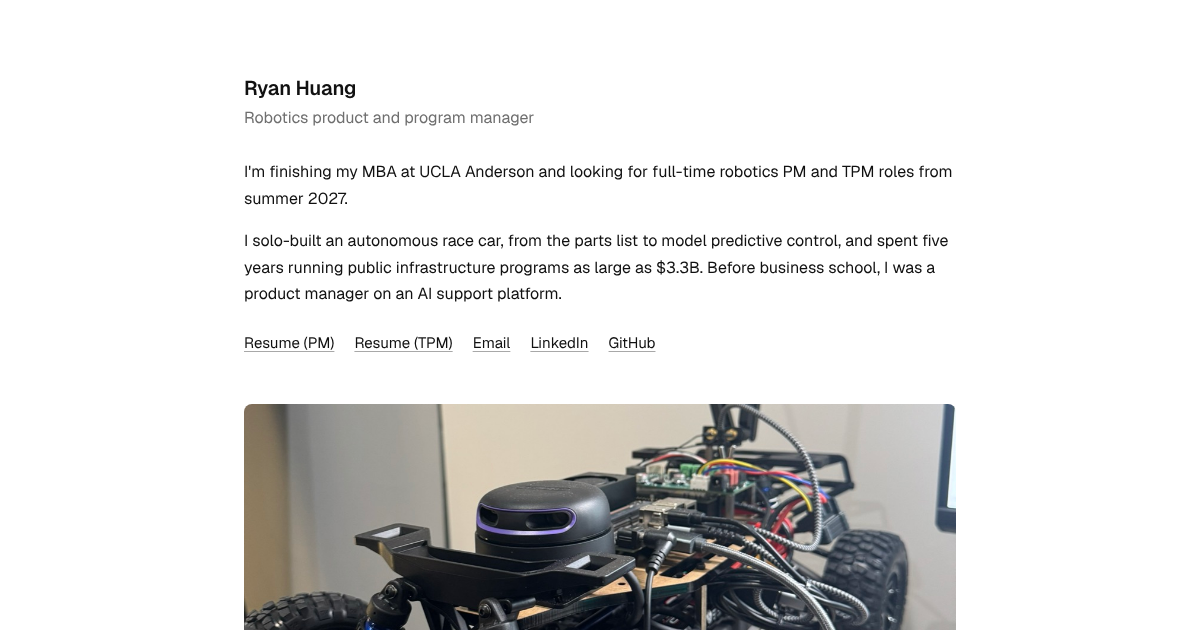
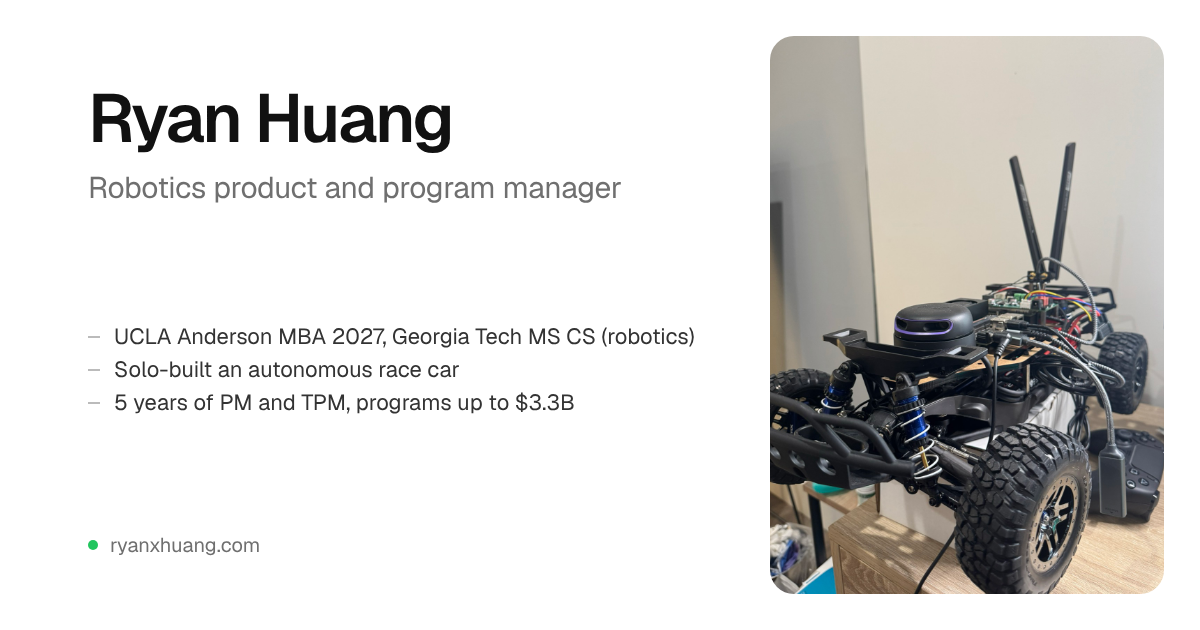
Hover results, case study key numbers, share card and search data
- Remove the Chinese-name hover effect
- Experience rows reveal their key result on hover or focus; always
  shown on touch screens and in print
- Key numbers at the top of each case study (stats in frontmatter)
- New Open Graph card for link previews
- schema.org Person data on the home page for search results

Claude-Session: https://claude.ai/code/session_01D7hY876oTEuHXyNf9GFinD

diff --git a/lib/site.ts b/lib/site.ts
@@ -22,27 +22,28 @@ export type Entry = {
   end?: string; // YYYY-MM, omitted while current
   dates: string;
   href?: string;
+  impact?: string; // one line shown on hover (always shown on touch screens)
 };
 
 /** Resume-style data for the home page, ordered newest first. */
 export const experience: Entry[] = [
-  { role: 'Capstone team lead', org: 'Avride, UCLA Anderson MBA capstone', mark: 'Av', start: '2026-11', dates: 'Nov 2026', href: '/work/avride/' },
-  { role: 'Graduate student researcher', org: 'UCLA Robot Intelligence Lab', mark: 'UR', start: '2026-10', dates: 'Oct 2026', href: '/work/uril/' },
-  { role: 'Founder and product lead', org: 'CMIS.ai', mark: 'CM', start: '2026-06', dates: 'Jun 2026', href: '/work/cmis/' },
-  { role: 'MBA intern, product and GTM', org: 'AGIBOT', mark: 'AG', start: '2026-05', end: '2026-07', dates: 'May – Jul 2026', href: '/work/agibot/' },
-  { role: 'Product manager', org: 'James Tech Consulting Group, Zendesk partner', mark: 'JT', start: '2025-03', end: '2025-07', dates: 'Mar – Jul 2025', href: '/work/zendesk/' },
-  { role: 'Technical program manager', org: 'China Engineering Consultants', mark: 'CE', start: '2024-06', end: '2025-02', dates: 'Jun 2024 – Feb 2025', href: '/work/infrastructure/' },
-  { role: 'Senior project manager', org: 'Taoyuan City Government', mark: 'TY', start: '2020-08', end: '2024-05', dates: 'Aug 2020 – May 2024', href: '/work/infrastructure/' },
+  { role: 'Capstone team lead', org: 'Avride, UCLA Anderson MBA capstone', mark: 'Av', start: '2026-11', dates: 'Nov 2026', href: '/work/avride/', impact: 'Signed Avride as our partner; pricing and market-selection work for 1,000+ robots on 25+ campuses.' },
+  { role: 'Graduate student researcher', org: 'UCLA Robot Intelligence Lab', mark: 'UR', start: '2026-10', dates: 'Oct 2026', href: '/work/uril/', impact: 'Proposed research on demonstration safety margins and physics-solver disagreement.' },
+  { role: 'Founder and product lead', org: 'CMIS.ai', mark: 'CM', start: '2026-06', dates: 'Jun 2026', href: '/work/cmis/', impact: 'Built a vision pipeline that turns site photos into structured records; 2 pilot users lined up.' },
+  { role: 'MBA intern, product and GTM', org: 'AGIBOT', mark: 'AG', start: '2026-05', end: '2026-07', dates: 'May – Jul 2026', href: '/work/agibot/', impact: 'Unitree benchmark, PRDs and a hardware-software roadmap, and the US go-to-market plan.' },
+  { role: 'Product manager', org: 'James Tech Consulting Group, Zendesk partner', mark: 'JT', start: '2025-03', end: '2025-07', dates: 'Mar – Jul 2025', href: '/work/zendesk/', impact: 'Division revenue doubled in 5 months; BenQ integration reached 92% accuracy and saved $200K a month.' },
+  { role: 'Technical program manager', org: 'China Engineering Consultants', mark: 'CE', start: '2024-06', end: '2025-02', dates: 'Jun 2024 – Feb 2025', href: '/work/infrastructure/', impact: 'Governance for a $3.3B railway program; one root-cause fix saved $1.5M and 12 months.' },
+  { role: 'Senior project manager', org: 'Taoyuan City Government', mark: 'TY', start: '2020-08', end: '2024-05', dates: 'Aug 2020 – May 2024', href: '/work/infrastructure/', impact: 'Managed a $63M portfolio with 10% ($6.3M) savings; cut execution costs 15% across 3 programs.' },
 ];
 
 export const projects: Entry[] = [
-  { role: 'F1TENTH autonomous car', org: 'Solo build, from the parts list to MPC', mark: 'F1', start: '2026-01', end: '2026-05', dates: 'Jan – May 2026', href: '/work/f1tenth/' },
+  { role: 'F1TENTH autonomous car', org: 'Solo build, from the parts list to MPC', mark: 'F1', start: '2026-01', end: '2026-05', dates: 'Jan – May 2026', href: '/work/f1tenth/', impact: '6 autonomy algorithms, about 5,000 lines of Python and C++, localization 4.47× faster on the GPU.' },
 ];
 
 export const education: Entry[] = [
-  { role: 'MBA', org: 'UCLA Anderson School of Management', mark: 'UA', dates: '2027' },
-  { role: 'MS in Computer Science, robotics', org: 'Georgia Institute of Technology', mark: 'GT', dates: 'From 2027' },
-  { role: 'MS in Civil Engineering', org: 'National Chiao Tung University', mark: 'CT', dates: '2020' },
+  { role: 'MBA', org: 'UCLA Anderson School of Management', mark: 'UA', dates: '2027', impact: 'Technology Management specialization. GRE 337.' },
+  { role: 'MS in Computer Science, robotics', org: 'Georgia Institute of Technology', mark: 'GT', dates: 'From 2027', impact: 'Computational Perception and Robotics specialization.' },
+  { role: 'MS in Civil Engineering', org: 'National Chiao Tung University', mark: 'CT', dates: '2020', impact: 'Co-authored a paper at the 17th World Conference on Earthquake Engineering.' },
   { role: 'BS in Civil Engineering', org: 'National Central University', mark: 'CU', dates: '2017' },
 ];
 

diff --git a/app/globals.css b/app/globals.css
@@ -240,14 +240,6 @@
   .prose td { padding: 9px 16px 9px 0; border-top: 1px solid var(--line); vertical-align: top; }
   .prose td:last-child, .prose th:last-child { padding-right: 0; }
 
-  /* Name: hover reveals the Chinese name */
-  .name { display: inline-grid; cursor: default; }
-  .name > span { grid-area: 1 / 1; transition: opacity 220ms ease, transform 220ms ease; }
-  .name .zh { opacity: 0; transform: translateY(4px); font-family: "PingFang TC", "Noto Sans TC", "Microsoft JhengHei", var(--font-sans); letter-spacing: 0.06em; }
-  .name:hover .en { opacity: 0; transform: translateY(-4px); }
-  .name:hover .zh { opacity: 1; transform: none; }
-  @media (prefers-reduced-motion: reduce) { .name > span { transition: none; } }
-
   .count { margin-left: 4px; color: var(--ink-3); font-variant-numeric: tabular-nums; }
 
   /* External-link arrow nudges on hover */
@@ -283,4 +275,29 @@
     .row { padding: 6px 0; margin: 0; }
     .label { margin-top: 18px; }
   }
+
+  /* Experience: the key result slides open on hover or keyboard focus, and is always open on touch screens. */
+  .impact {
+    display: grid;
+    grid-template-rows: 0fr;
+    opacity: 0;
+    transition: grid-template-rows 220ms ease, opacity 220ms ease;
+  }
+  .impact > span {
+    overflow: hidden;
+    font-size: 14px;
+    line-height: 1.5;
+    color: var(--ink);
+  }
+  .impact > span::before { content: ""; display: block; height: 6px; }
+  .row:hover .impact, .row:focus-visible .impact { grid-template-rows: 1fr; opacity: 1; }
+  @media (hover: none) { .impact { grid-template-rows: 1fr; opacity: 1; } .impact > span { color: var(--ink-2); } }
+  @media print { .impact { grid-template-rows: 1fr; opacity: 1; } }
+  @media (prefers-reduced-motion: reduce) { .impact { transition: none; } }
+
+  /* Key numbers at the top of a case study */
+  .stats { display: grid; grid-template-columns: repeat(auto-fit, minmax(150px, 1fr)); gap: 1px; margin-top: 28px; background: var(--line); border: 1px solid var(--line); border-radius: 10px; overflow: hidden; }
+  .stat { background: var(--bg); padding: 14px 16px 13px; }
+  .stat b { display: block; font-size: 22px; line-height: 1.2; font-weight: 600; letter-spacing: -0.02em; font-variant-numeric: tabular-nums; }
+  .stat span { display: block; margin-top: 3px; font-size: 13px; line-height: 1.4; color: var(--ink-2); }
 }

diff --git a/app/page.tsx b/app/page.tsx
@@ -1,20 +1,39 @@
 import Link from 'next/link';
 import Footer from '@/components/Footer';
 import { External, Play } from '@/components/Icons';
-import Name from '@/components/Name';
 import Links, { ResumeButton } from '@/components/Links';
 import Rows from '@/components/Rows';
 import { getLog } from '@/lib/content';
-import { education, experience, highlights, projects } from '@/lib/site';
+import { education, experience, highlights, projects, site } from '@/lib/site';
 
 export default function Home() {
   const log = getLog();
   const i = (n: number) => ({ ['--i' as string]: n });
 
+  const person = {
+    '@context': 'https://schema.org',
+    '@type': 'Person',
+    name: site.name,
+    alternateName: 'Ching Yu Huang',
+    jobTitle: 'Robotics product and program manager',
+    description: site.description,
+    url: site.url,
+    image: `${site.url}/f1tenth-hero.jpg`,
+    sameAs: [site.linkedin, site.github],
+    address: { '@type': 'PostalAddress', addressLocality: 'Los Angeles', addressRegion: 'CA', addressCountry: 'US' },
+    alumniOf: [
+      { '@type': 'CollegeOrUniversity', name: 'UCLA Anderson School of Management' },
+      { '@type': 'CollegeOrUniversity', name: 'National Chiao Tung University' },
+      { '@type': 'CollegeOrUniversity', name: 'National Central University' },
+    ],
+    knowsAbout: ['Robotics', 'Product management', 'Technical program management', 'ROS 2', 'Autonomous vehicles', 'SLAM', 'Model predictive control'],
+  };
+
   return (
     <>
+      <script type="application/ld+json" dangerouslySetInnerHTML={{ __html: JSON.stringify(person) }} />
       <header className="rise" style={i(0)}>
-        <Name />
+        <h1 className="m-0 text-[20px] font-semibold tracking-[-0.01em]">Ryan Huang</h1>
         <p className="muted m-0">Robotics product and program manager</p>
       </header>
 

diff --git a/app/work/[slug]/page.tsx b/app/work/[slug]/page.tsx
@@ -36,7 +36,6 @@ export default async function CaseStudy({ params }: Props) {
     ['Role', w.org ? `${w.role}, ${w.org}` : w.role],
     ['Period', w.period],
   ];
-  meta.push(['Reading', `${mins} min`]);
   if (w.stack?.length) meta.push(['Stack', w.stack.join(', ')]);
   if (w.links?.length)
     meta.push([
@@ -50,6 +49,8 @@ export default async function CaseStudy({ params }: Props) {
       </span>,
     ]);
 
+  meta.push(['Reading', `${mins} min`]);
+
   return (
     <article>
       <Progress />
@@ -58,6 +59,17 @@ export default async function CaseStudy({ params }: Props) {
       </Link>
       <h1 className="mt-10 mb-0 text-[26px] leading-tight font-semibold tracking-[-0.02em]">{w.title}</h1>
       <p className="muted mt-3 mb-0">{w.summary}</p>
+
+      {w.stats?.length ? (
+        <div className="stats" role="list" aria-label="Key numbers">
+          {w.stats.map((x) => (
+            <div key={x.value + x.label} className="stat" role="listitem">
+              <b>{x.value}</b>
+              <span>{x.label}</span>
+            </div>
+          ))}
+        </div>
+      ) : null}
 
       <dl className="mt-8 mb-0 grid grid-cols-[5.5rem_1fr] gap-x-4 gap-y-1.5 text-[14.5px]">
         {meta.map(([k, v]) => (

diff --git a/components/Rows.tsx b/components/Rows.tsx
@@ -27,6 +27,11 @@ export default function Rows({ items }: { items: Entry[] }) {
               <span>
                 <span className="block font-medium">{x.role}</span>
                 <span className="muted block text-[15px]">{x.org}</span>
+                {x.impact ? (
+                  <span className="impact">
+                    <span>{x.impact}</span>
+                  </span>
+                ) : null}
               </span>
             </span>
             <span className="num text-right text-[14px] whitespace-nowrap">

diff --git a/lib/content.ts b/lib/content.ts
@@ -15,6 +15,7 @@ export interface WorkMeta {
   order: number;
   stack?: string[];
   links?: { label: string; href: string }[];
+  stats?: { value: string; label: string }[];
 }
 
 export interface LogMeta {

diff --git a/README.md b/README.md
@@ -26,12 +26,12 @@ Node is pinned in `.nvmrc` (22).
 
 | What | Where |
 |---|---|
-| Case studies | `content/work/*.mdx` (frontmatter: title, summary, role, org, period, year, order, stack, links) |
+| Case studies | `content/work/*.mdx` (frontmatter: title, summary, role, org, period, year, order, stack, links, stats) |
 | Build log entries | `content/log/*.mdx` (frontmatter: title, summary, date `YYYY-MM`, displayDate, project) |
 | Contact details, experience, education, highlights | `lib/site.ts` |
 | Resume PDF | `public/resume/Ryan_Huang_Resume.pdf` (also copied to `/resume.pdf` for old links) |
 
-The design is deliberately minimal: one column, one typeface, no decoration. The small details: the Chinese name on hover, an availability dot, copy-to-clipboard email, organization monograms with tenure, highlights that link to their case studies, a "Watch it drive" chip on the photo, Los Angeles local time with a sun or moon in the footer, section counts, external-link arrows, a reading-progress line and "#" heading links on long pages, reading time, a back-to-top link, and a print stylesheet that turns the home page into a clean one-column resume.
+The design is deliberately minimal: one column, one typeface, no decoration. The small details: an availability dot, key results that slide open when you hover an experience row (always shown on touch screens), key numbers at the top of each case study, copy-to-clipboard email, organization monograms with tenure, highlights that link to their case studies, a "Watch it drive" chip on the photo, Los Angeles local time with a sun or moon in the footer, section counts, external-link arrows, a reading-progress line and "#" heading links on long pages, reading time, a back-to-top link, and a print stylesheet that turns the home page into a clean one-column resume.
 
 MDX files can use `<Figure caption="...">`, `<TrackMap />` (the real F1TENTH map and raceline from `data/track.json`), `<TrackLegend />`, and `<Videos><Video id="YOUTUBE_ID" title="..." /></Videos>`. Pass props as strings; JavaScript expressions are blocked.
 
